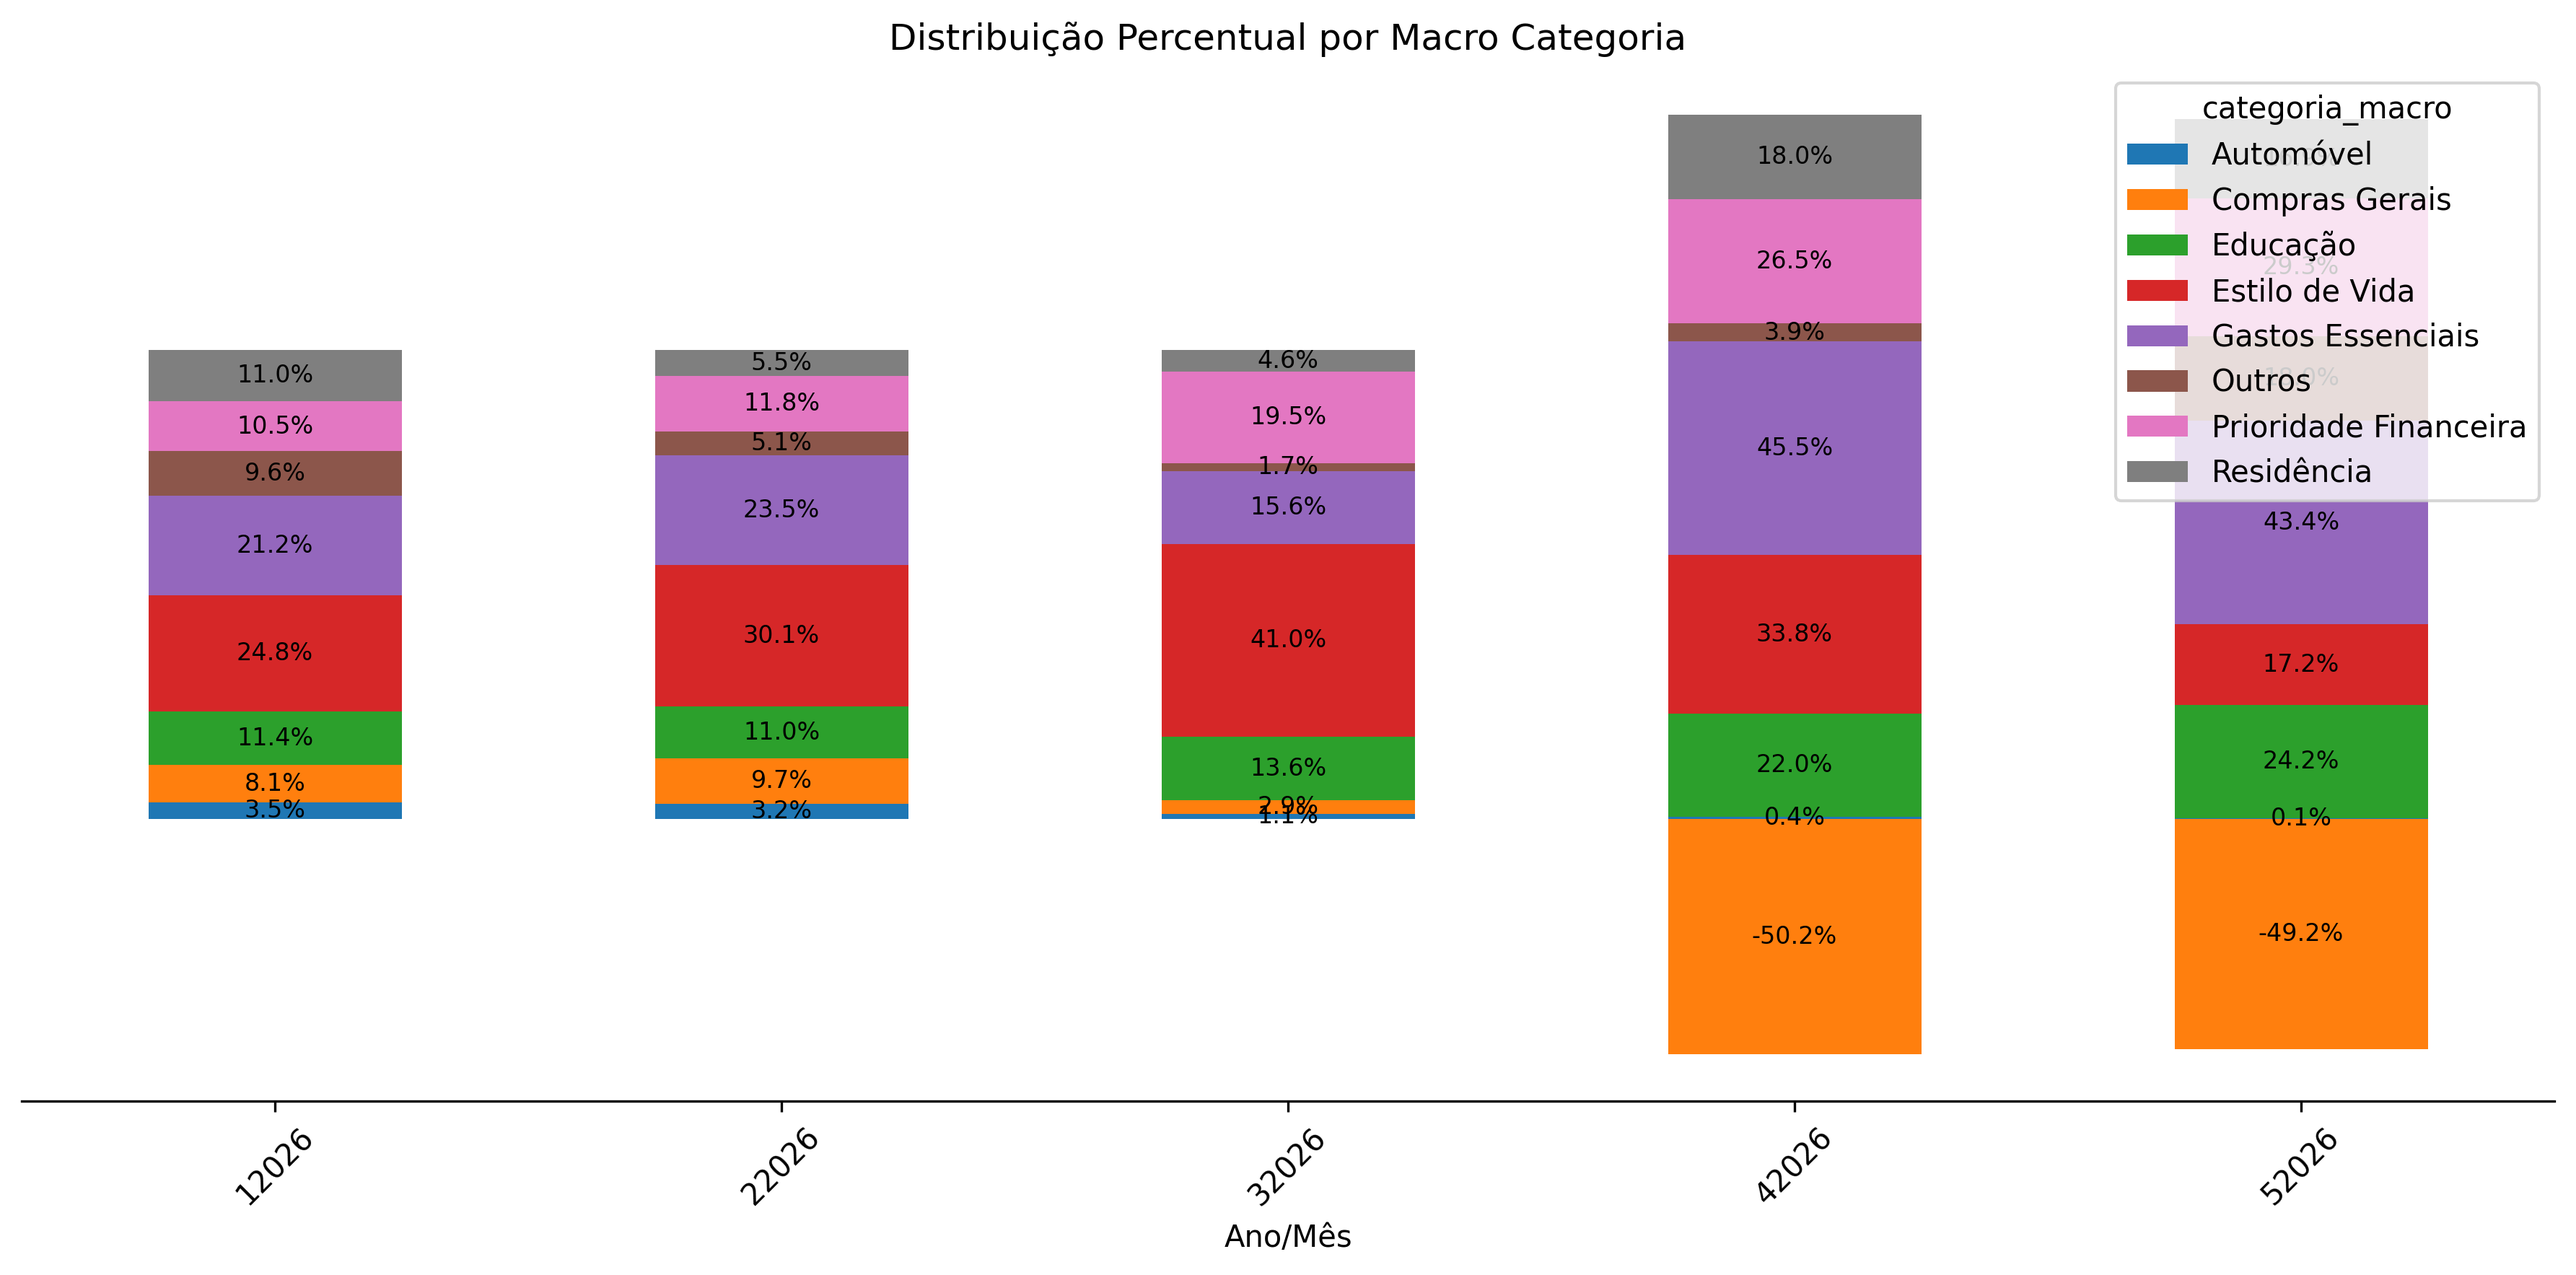
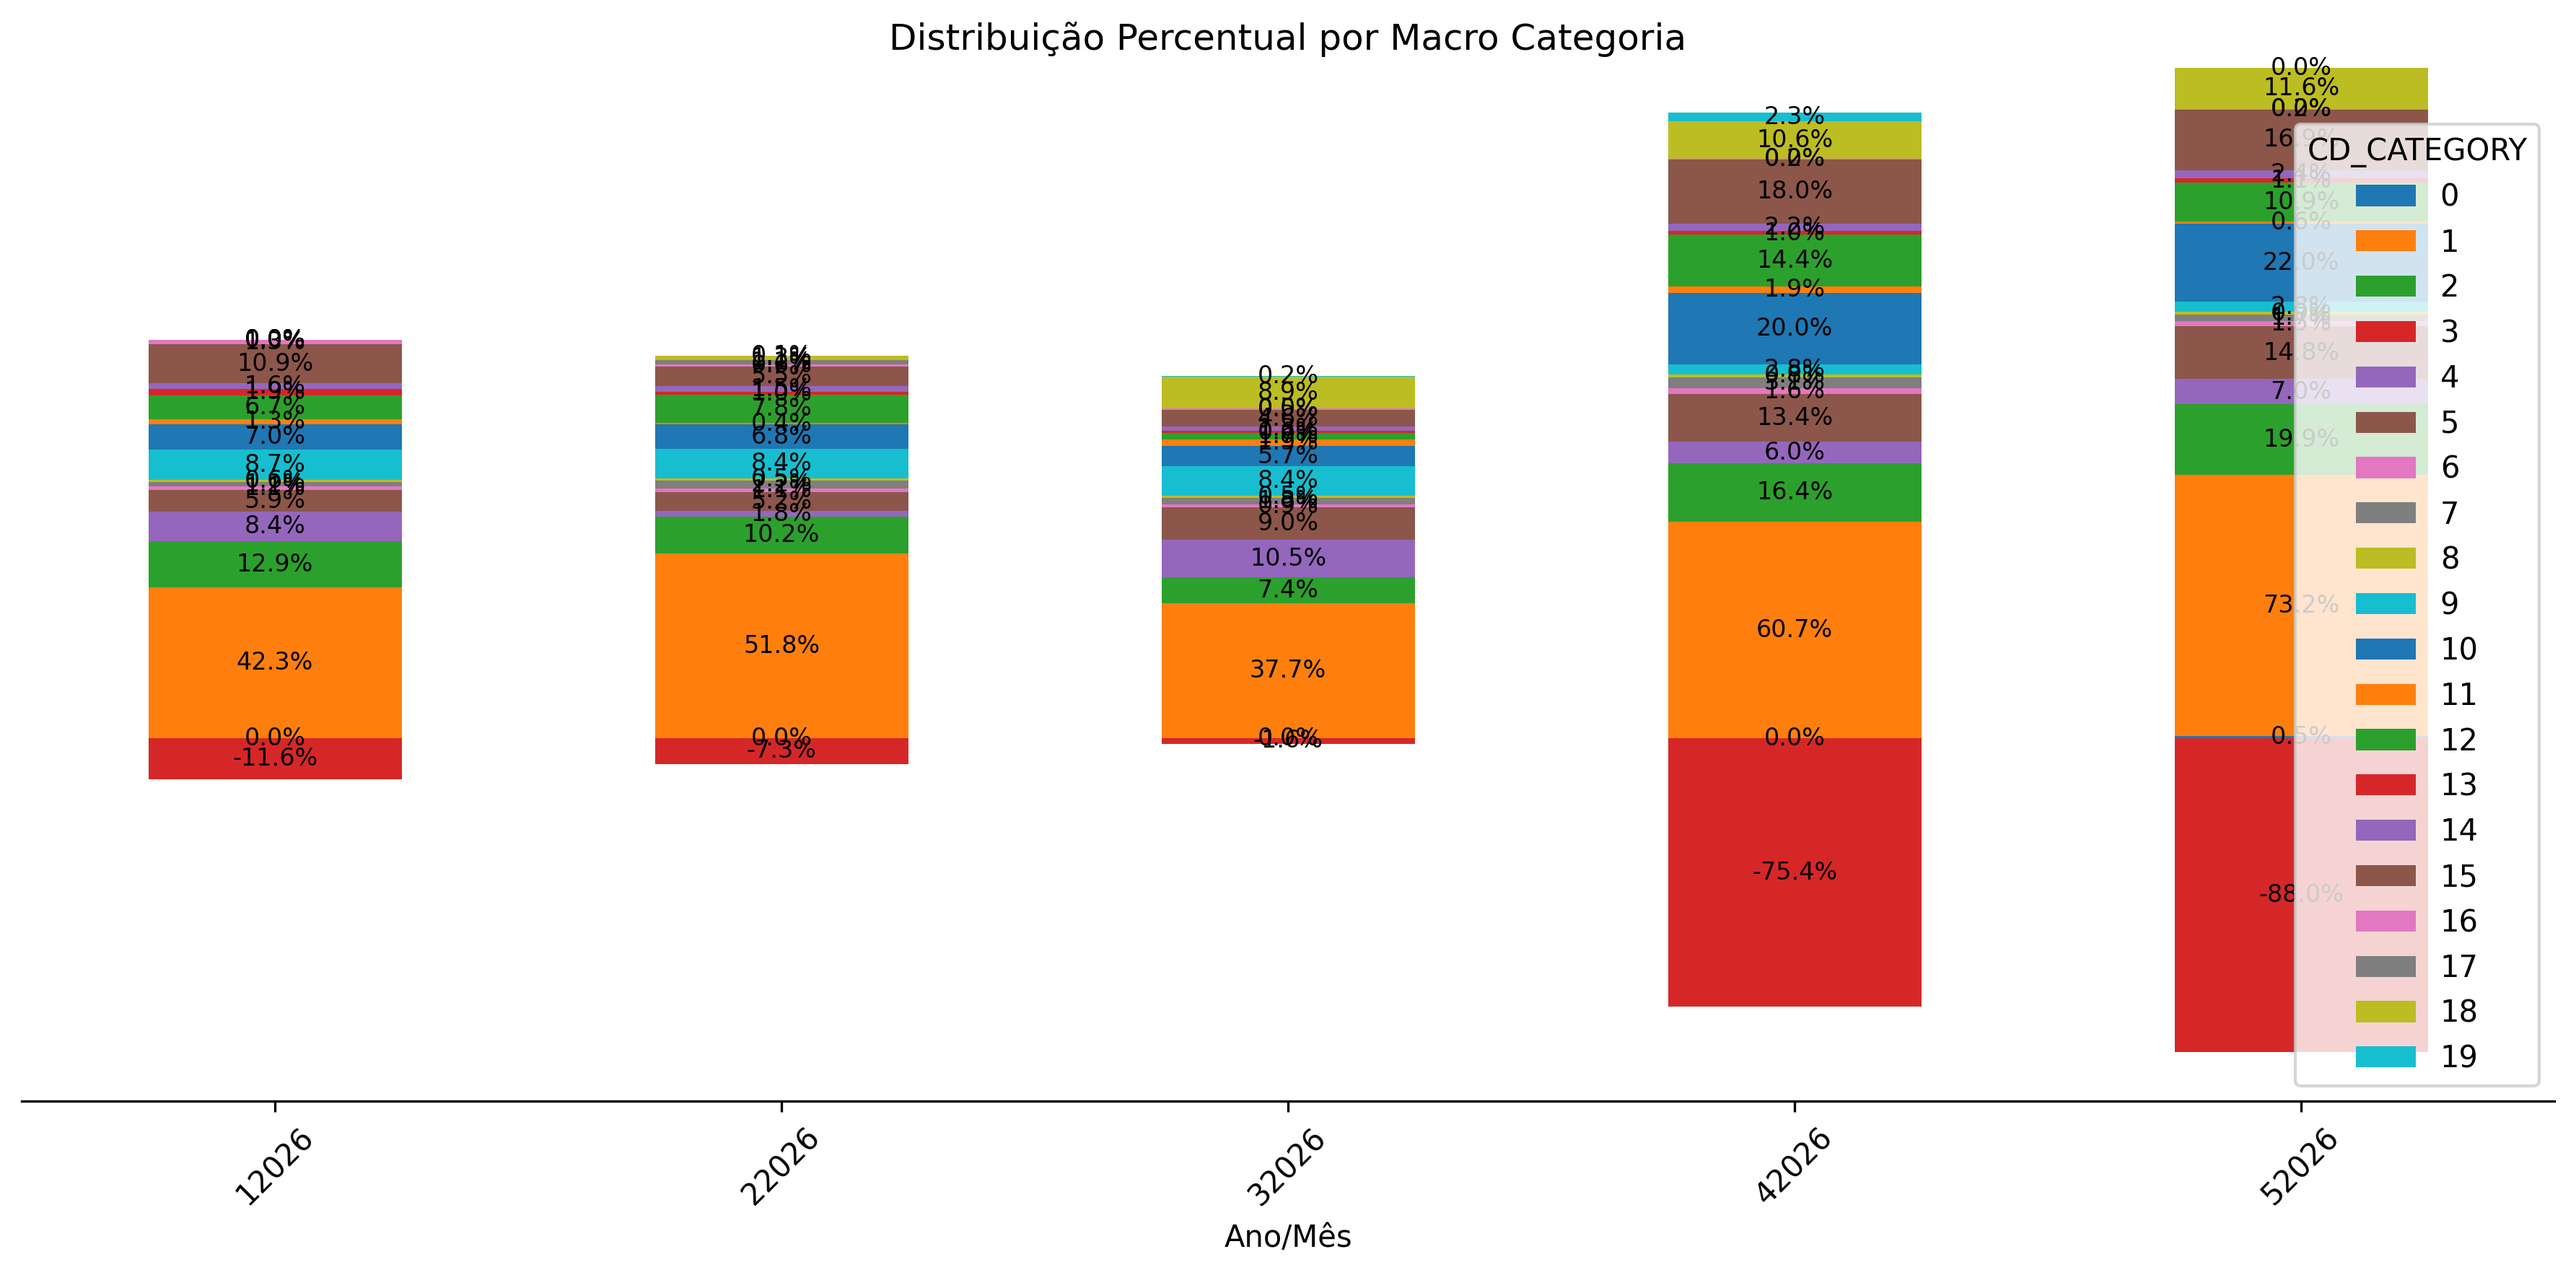
graphs updated

diff --git a/util/grafic_viz.py b/util/grafic_viz.py
@@ -10,37 +10,37 @@ def prepare_macro_data(df):
     Retorna um DataFrame pivotado com meses nas linhas e categorias nas colunas.
     """
     grouped = (
-        df.groupby(['ANOMES', 'categoria_macro'])['VALUE']
+        df.groupby(['ANOMES', 'CD_CATEGORY'])['VALUE']
         .sum()
         .reset_index()
     )
     pivot_df = grouped.pivot(
         index='ANOMES',
-        columns='categoria_macro',
+        columns='CD_CATEGORY',
         values='VALUE'
     ).fillna(0)
     return pivot_df
 
 def prepare_macro_n2_data(df):
     """
-    Agrupa por ANOMES, categoria_macro e categoria_l2.
+    Agrupa por ANOMES, CD_CATEGORY e categoria_l2.
     Retorna pivot com multi-índice nas colunas.
     """
     grouped = (
-        df.groupby(['ANOMES', 'categoria_macro', 'categoria_l2'])['VALUE']
+        df.groupby(['ANOMES', 'CD_CATEGORY', 'CD_SUB_CATEGORY'])['VALUE']
         .sum()
         .reset_index()
     )
     pivot_df = grouped.pivot(
         index='ANOMES',
-        columns=['categoria_macro', 'categoria_l2'],
+        columns=['CD_CATEGORY', 'CD_SUB_CATEGORY'],
         values='VALUE'
     ).fillna(0)
     return pivot_df
 
 def macro_percentage(df):
     """
-    Calcula a participação percentual de cada categoria_macro por mês.
+    Calcula a participação percentual de cada CD_CATEGORY por mês.
     """
     pivot_df = prepare_macro_data(df)
     percent_df = pivot_df.div(pivot_df.sum(axis=1), axis=0) * 100
@@ -285,16 +285,16 @@ def grafico_sub_evolucao(df, macro_filter=None, top_n=None):
         titulo = "Evolução dos Gastos por Subcategoria"
     
     # Agrupa por ANOMES e categoria_l2
-    grouped = data.groupby(['ANOMES', 'categoria_l2'])['VALUE'].sum().reset_index()
+    grouped = data.groupby(['ANOMES', 'CD_SUB_CATEGORY'])['VALUE'].sum().reset_index()
     
     # Se top_n for especificado, calcula totais por subcategoria e filtra
     if top_n:
-        total_por_sub = grouped.groupby('categoria_l2')['VALUE'].sum().sort_values(ascending=False)
+        total_por_sub = grouped.groupby('CD_SUB_CATEGORY')['VALUE'].sum().sort_values(ascending=False)
         top_subcats = total_por_sub.head(top_n).index
-        grouped = grouped[grouped['categoria_l2'].isin(top_subcats)]
+        grouped = grouped[grouped['CD_SUB_CATEGORY'].isin(top_subcats)]
     
-    # Pivot: linhas = ANOMES, colunas = categoria_l2
-    pivot_df = grouped.pivot(index='ANOMES', columns='categoria_l2', values='VALUE').fillna(0)
+    # Pivot: linhas = ANOMES, colunas = CD_SUB_CATEGORY
+    pivot_df = grouped.pivot(index='ANOMES', columns='CD_SUB_CATEGORY', values='VALUE').fillna(0)
     
     # Ordenar cronologicamente
     pivot_df.index = pd.to_datetime(pivot_df.index, format='%m%Y')
